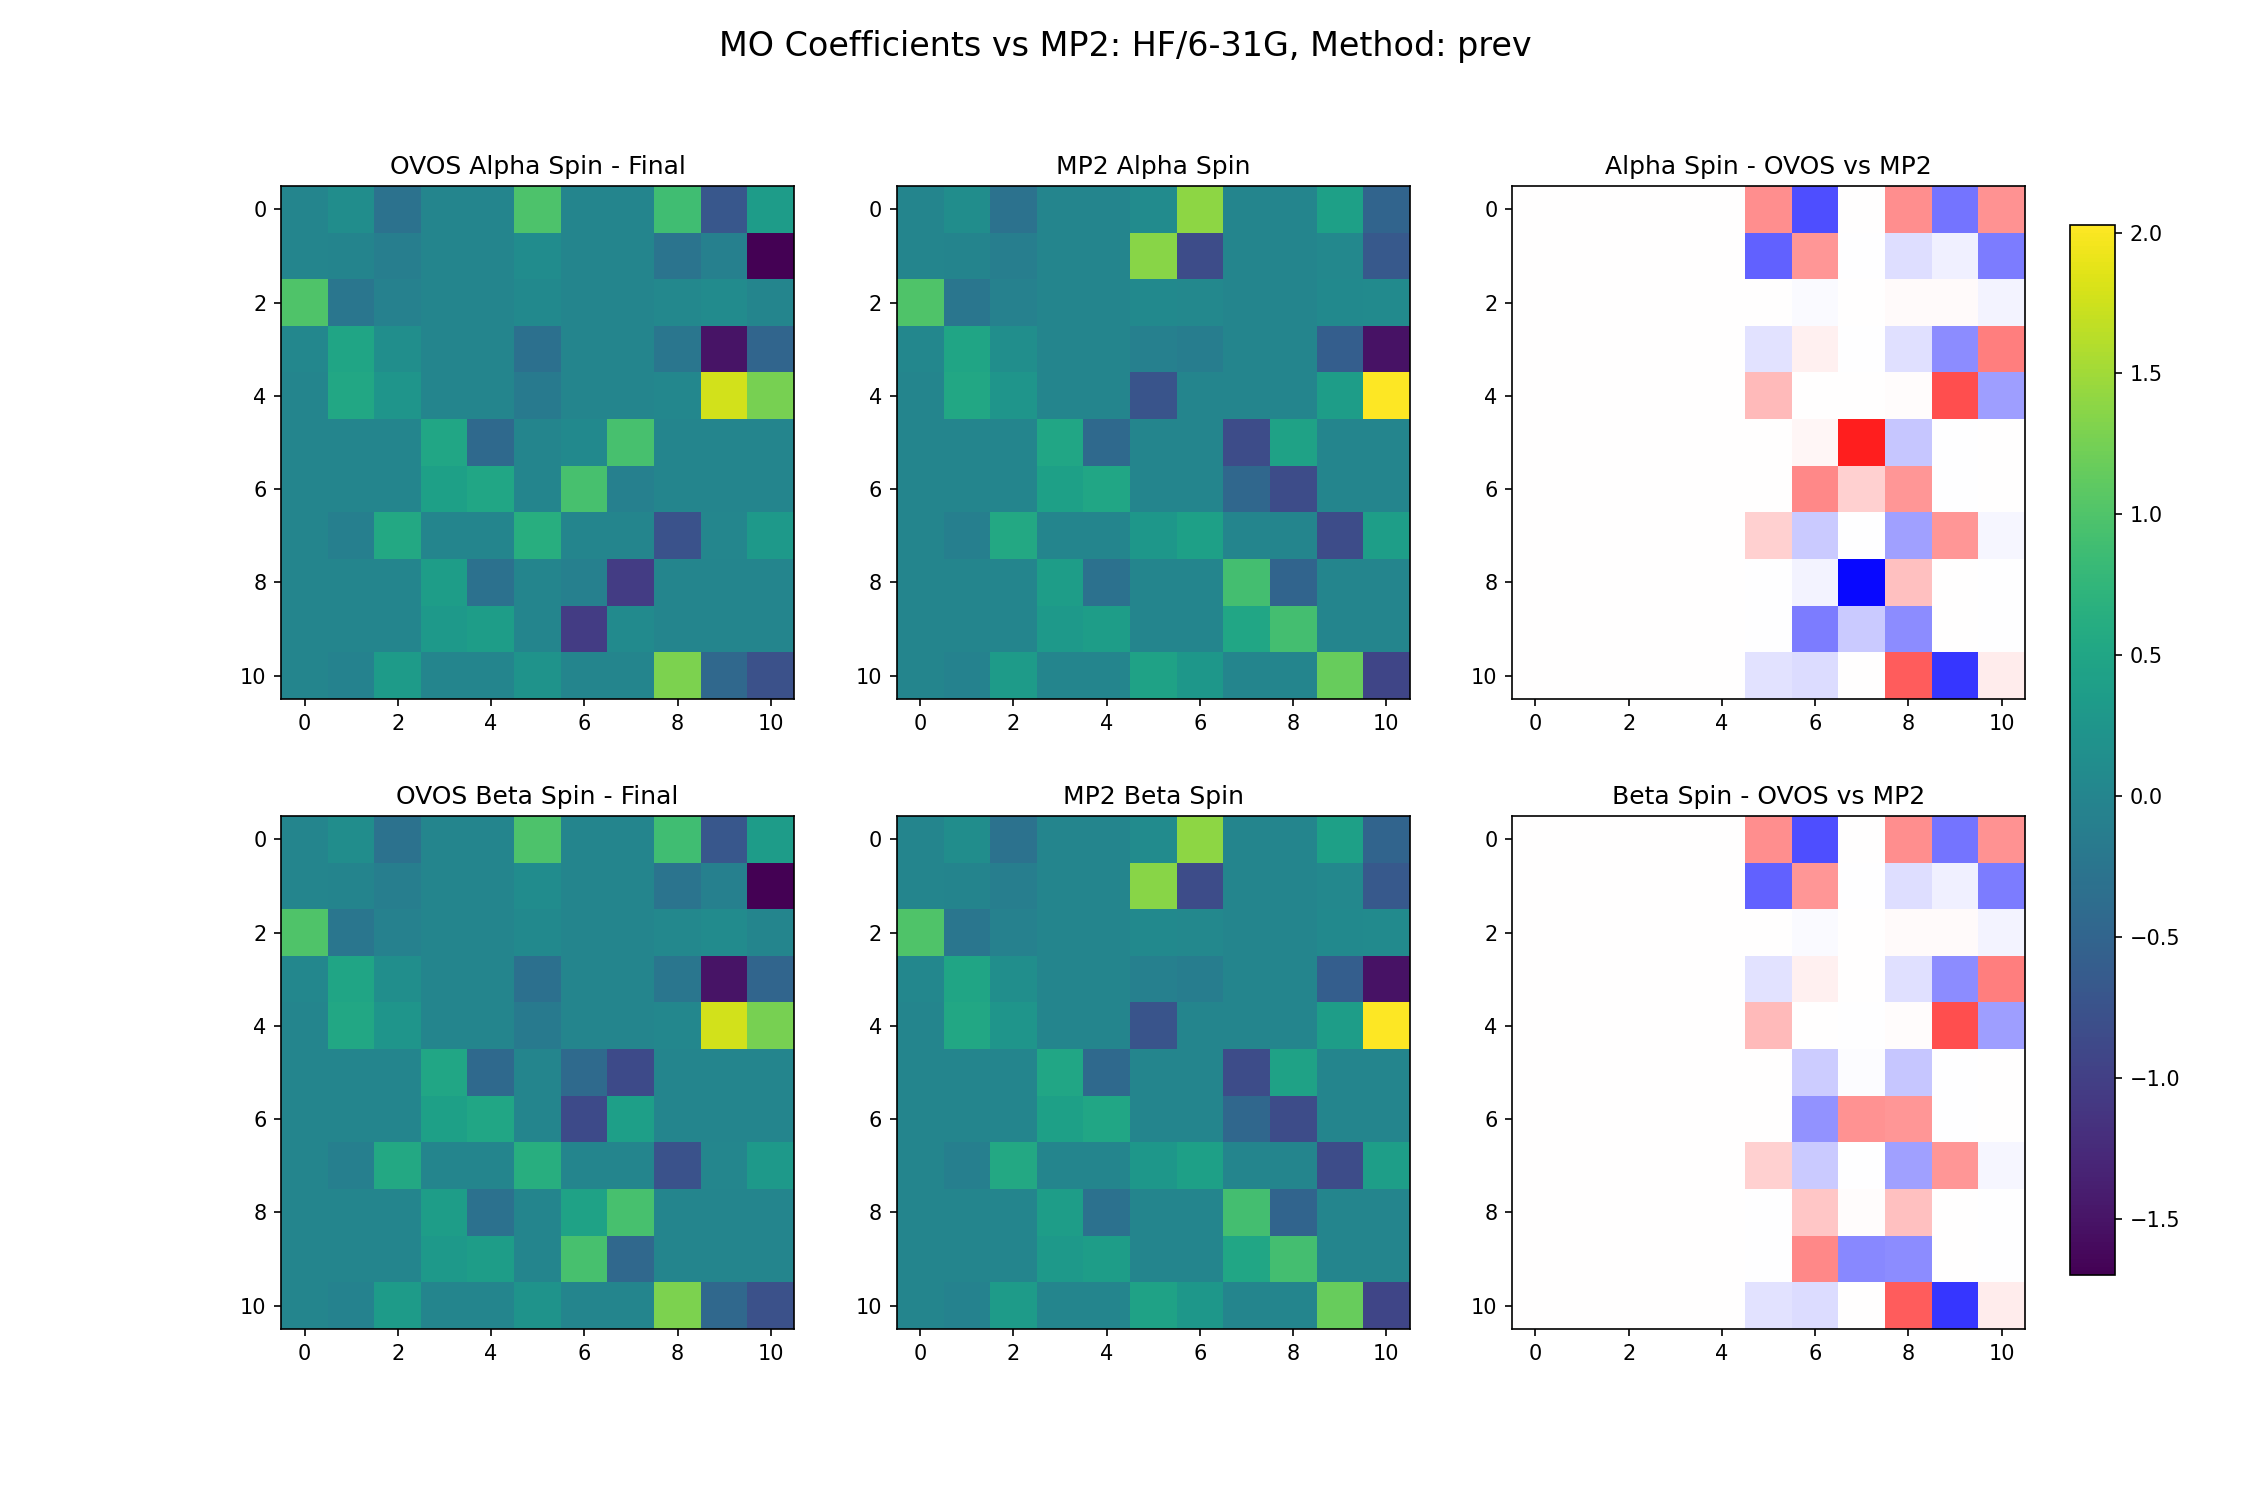
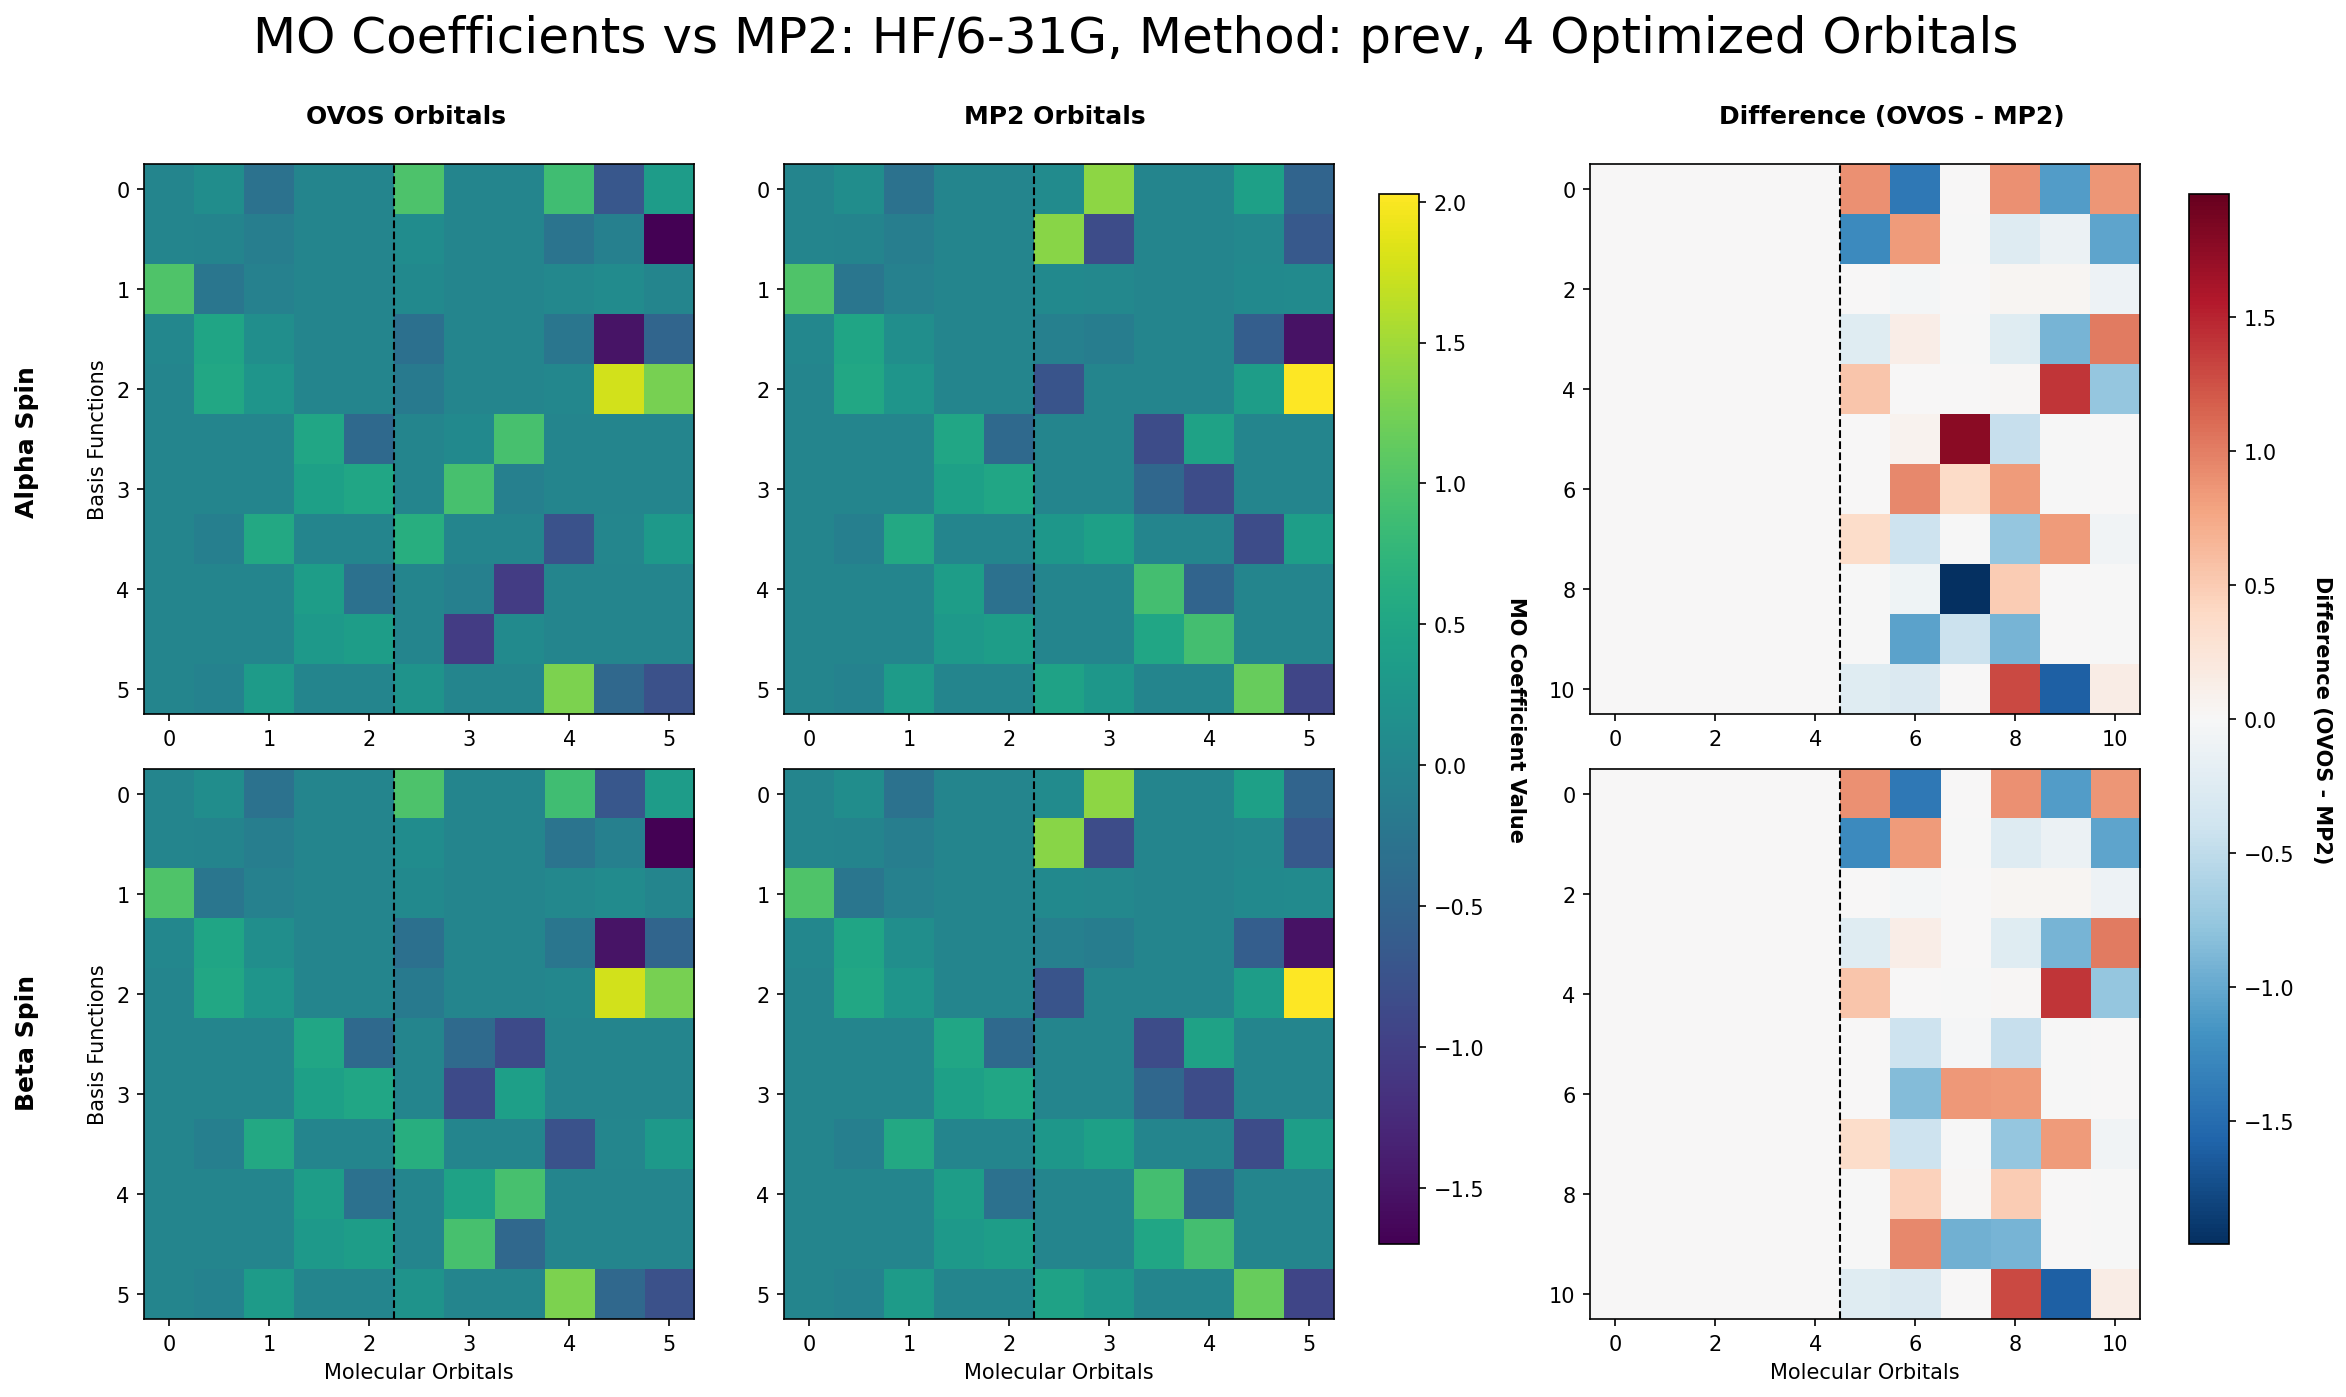
Commit cc-pVDZ OVOS

diff --git a/backup/ovos_data.py b/backup/ovos_data.py
@@ -580,7 +580,7 @@ def plot_OVOS_MO_coefficient_diff_MP2(molecule, basis):
             files_exist[methods.index(method)] = True
     if all(files_exist):
         print("✅ All plots already exist, skipping calculation and plotting.")
-        return
+        # return
 
     # Calculate MP2 MO coefficients for the full space
         # We need to create a molecule and perform an RHF calculation to get the MO coefficients, since MP2 orbitals are the same as RHF orbitals
@@ -631,41 +631,98 @@ def plot_OVOS_MO_coefficient_diff_MP2(molecule, basis):
         
         mo_coeffs_ovos = np.array(mo_coeffs_final[method])
         
-        fig, axes = plt.subplots(2, 3, figsize=(15, 10))
-        fig.suptitle(f'MO Coefficients vs MP2: {molecule_name}/{basis}, Method: {method}', fontsize=16)
+        # Create GridSpec for better control over layout
+        # 2 rows x 4 columns: [heatmap, heatmap, buffer, heatmap]
+        fig = plt.figure(figsize=(18, 10))
+        gs = fig.add_gridspec(2, 4, right=0.88, hspace=0.1, wspace=0.1, 
+                              width_ratios=[1, 1, 0.2, 1])
         
+        # Create axes for the 8 subplots (2 rows, skipping buffer columns)
+        axes = []
+        for i in range(2):
+            # First two columns (OVOS and MP2)
+            axes.append(fig.add_subplot(gs[i, 0]))
+            axes.append(fig.add_subplot(gs[i, 1]))
+            # Skip buffer column (i, 2)
+            # Last two columns (Difference plots)
+            axes.append(fig.add_subplot(gs[i, 3]))
+
+        # Title
+        fig.suptitle(f'MO Coefficients vs MP2: {molecule_name}/{basis}, Method: {method}, {num_opt_virt_orb} Optimized Orbitals', 
+                     fontsize=24, y=0.98)
+
+        # Determine color scales
         vmin = min(np.min(mo_coeffs_ovos[0]), np.min(mo_coeffs_MP2))
         vmax = max(np.max(mo_coeffs_ovos[0]), np.max(mo_coeffs_MP2))
-
-        # Alpha spin
-        im0 = axes[0, 0].imshow(mo_coeffs_ovos[0], vmin=vmin, vmax=vmax, cmap='viridis')
-        axes[0, 0].set_title('OVOS Alpha Spin - Final')
         
-        im1 = axes[0, 1].imshow(mo_coeffs_MP2[:, :mo_coeffs_ovos[0].shape[1]], vmin=vmin, vmax=vmax, cmap='viridis')
-        axes[0, 1].set_title('MP2 Alpha Spin')
-        
-        im2 = axes[0, 2].imshow(mo_coeffs_ovos[0] - mo_coeffs_MP2[:, :mo_coeffs_ovos[0].shape[1]], cmap='bwr', vmin=-vmax, vmax=vmax)
-        axes[0, 2].set_title('Alpha Spin - OVOS vs MP2')
+        diff_vmax = max(
+            np.max(np.abs(mo_coeffs_ovos[0] - mo_coeffs_MP2[:, :mo_coeffs_ovos[0].shape[1]])),
+            np.max(np.abs(mo_coeffs_ovos[1] - mo_coeffs_MP2[:, :mo_coeffs_ovos[1].shape[1]]))
+        )
+        diff_vmin = -diff_vmax
 
-        # Beta spin
-        im3 = axes[1, 0].imshow(mo_coeffs_ovos[1], vmin=vmin, vmax=vmax, cmap='viridis')
-        axes[1, 0].set_title('OVOS Beta Spin - Final')
+        # Alpha spin plots
+        im0 = axes[0].imshow(mo_coeffs_ovos[0], vmin=vmin, vmax=vmax, cmap='viridis')
+        axes[0].set_ylabel('Basis Functions')
         
-        im4 = axes[1, 1].imshow(mo_coeffs_MP2[:, :mo_coeffs_ovos[1].shape[1]], vmin=vmin, vmax=vmax, cmap='viridis')
-        axes[1, 1].set_title('MP2 Beta Spin')
+        im1 = axes[1].imshow(mo_coeffs_MP2[:, :mo_coeffs_ovos[0].shape[1]], vmin=vmin, vmax=vmax, cmap='viridis')
         
-        im5 = axes[1, 2].imshow(mo_coeffs_ovos[1] - mo_coeffs_MP2[:, :mo_coeffs_ovos[1].shape[1]], cmap='bwr', vmin=-vmax, vmax=vmax)
-        axes[1, 2].set_title('Beta Spin - OVOS vs MP2')
+        im2 = axes[2].imshow(mo_coeffs_ovos[0] - mo_coeffs_MP2[:, :mo_coeffs_ovos[0].shape[1]], 
+                             cmap='RdBu_r', vmin=diff_vmin, vmax=diff_vmax)
 
-        # Colorbar
-        cbar_ax = fig.add_axes([0.92, 0.15, 0.02, 0.7])  # [left, bottom, width, height
-        fig.colorbar(im1, cax=cbar_ax)
+        # Beta spin plots
+        im3 = axes[3].imshow(mo_coeffs_ovos[1], vmin=vmin, vmax=vmax, cmap='viridis')
+        axes[3].set_ylabel('Basis Functions')
+        
+        im4 = axes[4].imshow(mo_coeffs_MP2[:, :mo_coeffs_ovos[1].shape[1]], vmin=vmin, vmax=vmax, cmap='viridis')
+        
+        im5 = axes[5].imshow(mo_coeffs_ovos[1] - mo_coeffs_MP2[:, :mo_coeffs_ovos[1].shape[1]], 
+                             cmap='RdBu_r', vmin=diff_vmin, vmax=diff_vmax)
 
+        # Plot a black stripped line in each heatmap to indicate the separation between occupied and virtual orbitals, which is at num_electrons//2
+        num_occupied_orbitals = num_electrons // 2
+        for ax in axes:
+            ax.axvline(num_occupied_orbitals - 0.5, color='black', linestyle='--', linewidth=1)
+
+        # Add x-labels for bottom row
+        for i in [3, 4, 5]:
+            axes[i].set_xlabel('Molecular Orbitals')
+        # Set x-ticks to show every 2nd MO, even, for better readability
+        for ax in [axes[0], axes[1], axes[3], axes[4]]:
+            ax.set_xticks(np.arange(0, mo_coeffs_ovos[0].shape[1], 2))
+                # Check if //2 is less than the number of ticks not skipping every 2nd
+            mo_labels = mo_coeffs_ovos[0].shape[1]//2 if mo_coeffs_ovos[0].shape[1]//2 == len(np.arange(0, mo_coeffs_ovos[0].shape[1], 2)) else mo_coeffs_ovos[0].shape[1]//2 + 1
+            ax.set_xticklabels(np.arange(0, mo_labels, 1))
+            ax.set_yticks(np.arange(0, mo_coeffs_ovos[0].shape[1], 2))
+            ax.set_yticklabels(np.arange(0, mo_labels, 1))
+
+        # Colorbar 1: For viridis (MO coefficients)
+        cbar_ax1 = fig.add_axes([0.59, 0.16, 0.015, 0.7])
+        cbar1 = fig.colorbar(im1, cax=cbar_ax1)
+        cbar1.set_label('MO Coefficient Value', rotation=270, labelpad=20, fontweight='bold')
+
+        # Colorbar 2: For RdBu (differences)
+        cbar_ax2 = fig.add_axes([0.89, 0.16, 0.015, 0.7])
+        cbar2 = fig.colorbar(im2, cax=cbar_ax2)
+        cbar2.set_label('Difference (OVOS - MP2)', rotation=270, labelpad=18, fontweight='bold')
+
+        # Add labels for the coloumns on the top of coloumns for OVOS, MP2 and difference and on the left hand side for alpha and beta spin
+            # Column labels (top)
+        fig.text(0.23, 0.92, 'OVOS Orbitals', ha='center', va='top', fontsize=12, fontweight='bold')
+        fig.text(0.47, 0.92, 'MP2 Orbitals', ha='center', va='top', fontsize=12, fontweight='bold')
+        fig.text(0.78, 0.92, 'Difference (OVOS - MP2)', ha='center', va='top', fontsize=12, fontweight='bold')
+        
+            # Row labels (left side)
+        fig.text(0.085, 0.695, 'Alpha Spin', ha='left', va='center', rotation=90, fontsize=12, fontweight='bold')
+        fig.text(0.085, 0.295, 'Beta Spin', ha='left', va='center', rotation=90, fontsize=12, fontweight='bold')
+        
         # Save figure
         output_file = output_dir / f"MO_coefficients_vs_MP2_{molecule_name}_{basis}_{method}.png"
-        plt.savefig(output_file, dpi=150)
+        plt.savefig(output_file, dpi=150, bbox_inches='tight')
         print(f"✅ Plot saved to: {output_file}")
         plt.close()
+
+
 
 # Plot a 3D surface plot as a heatmap over the surface - illustrating the convergence landscape of OVOS as a function of a optimized virtual orbitals, for a given molecule, basis set, and method (RHF, prev, random)
     # Axis x: convergence criterion energy 
@@ -1140,7 +1197,7 @@ def run_ovos_random_attempt(molecule, basis, num_opt_virtual_orbs, mo_coeffs_tri
         num_opt_virtual_orbs=2*num_opt_virtual_orbs,
         mo_coeff=mo_coeffs_trial,
         init_orbs="RHF",
-        verbose=0, max_iter=1000,
+        verbose=0, max_iter=num_iter_max,
         conv_energy=1e-8, conv_grad=1e-6,
         keep_track_max=50
     )
@@ -1191,7 +1248,7 @@ def ovos_object(molecule, basis, method="RHF"):
     output_dir.mkdir(parents=True, exist_ok=True)
 
     output_file = output_dir / f"lst_MP2_OVOS_virt_orbs_{method}.json"
-    if output_file.exists() and method != "random":  # For random method we want to overwrite to get new random initializations
+    if output_file.exists():  # For random method we want to overwrite to get new random initializations
         print(f"⚠  Output file already exists at {output_file}, skipping OVOS run to avoid overwriting.\n")
         return
 
@@ -1252,7 +1309,7 @@ def ovos_object(molecule, basis, method="RHF"):
     else:
         # Get molecule data with correct initialization
         if method == "random":
-            num_random_attempts = 1000
+            num_random_attempts = 1000 if basis == "6-31G" else 500  # More attempts for smaller basis sets to get good statistics
             mol, mf, Fao, mo_coeffs_list, num_electrons, num_orbitals, E_ref, E_corr_MP2 = mol_data(
                 molecule, basis, method="random", num_random_attempts=num_random_attempts
             )
@@ -1282,7 +1339,7 @@ def ovos_object(molecule, basis, method="RHF"):
                 rhf_data_file = output_dir / f"lst_MP2_OVOS_virt_orbs_RHF.json"
                 rhf_threshold = None
                 rhf_iter = None
-                num_iter_max = 1000
+                num_iter_max = 1000 if basis == "6-31G" else 500  # Default max iterations for random attempts if no RHF data is available
                 
                 if rhf_data_file.exists():
                     with open(rhf_data_file, "r") as f:
@@ -1339,6 +1396,8 @@ def ovos_object(molecule, basis, method="RHF"):
                             iter_count = result['E_corr_iter'][-1]
                             
                             # Update best result
+                            completed_count_max = 500 if basis == "6-31G" else 250
+
                             if best_energy is None or final_energy <= best_energy:
                                 if best_energy is not None and final_energy == best_energy:
                                     if iter_count < best_iter:
@@ -1351,7 +1410,8 @@ def ovos_object(molecule, basis, method="RHF"):
                                     best_iter = iter_count
 
                                 keep_count = 0  # Reset keep count if we find a new best result
-                            elif completed_count >= 500:
+                                
+                            elif completed_count >= completed_count_max:
                                 # If we are at full space, we want to do all attempts to get a good distribution of results, so we won't stop early
                                 if num_opt_virtual_orbs < (num_orbitals - num_electrons // 2):
                                     keep_count += 1  # Increment keep count if we do not find a better result
@@ -1826,9 +1886,8 @@ if __name__ == "__main__":
     # Debug run
     # run_ovos_for_virtual_orbs(molecules[2], basis_sets[0], method="RHF", num_opt_virtual_orbs=6)
 
-    for basis in basis_sets[0:1]: 
-        for molecule in molecules[0:1]: 
-        # for molecule in molecules[1:4]: # Done: HF, CO, H2O, NH3
+    for basis in basis_sets[1:2]:   # Done: 6-31G
+        for molecule in molecules[3:4]:  # Do: HF, H2O
             for method in methods:
                 ovos_object(molecule, basis, method)
 
